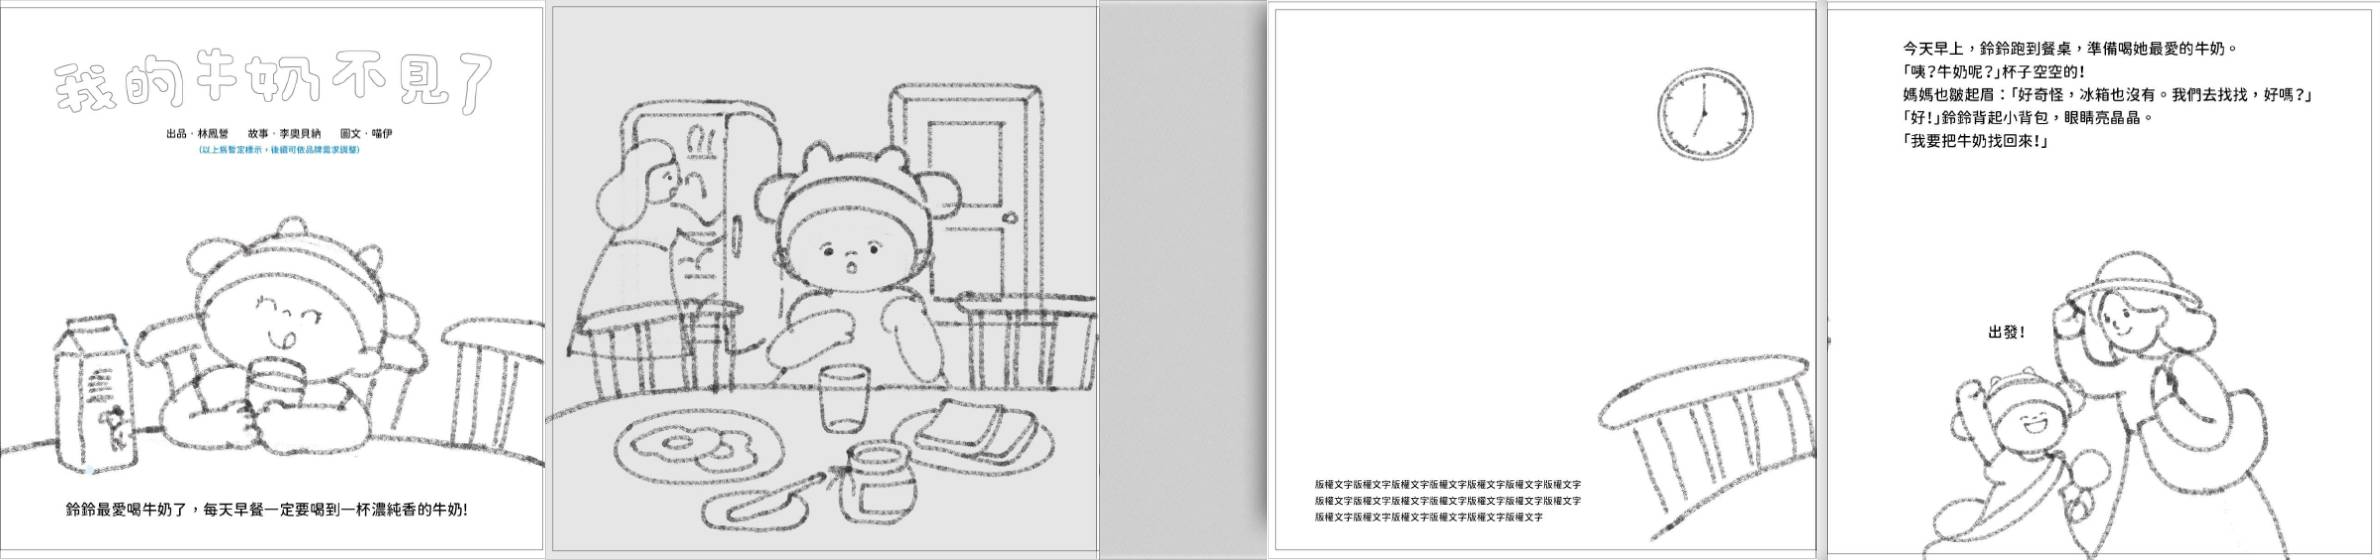
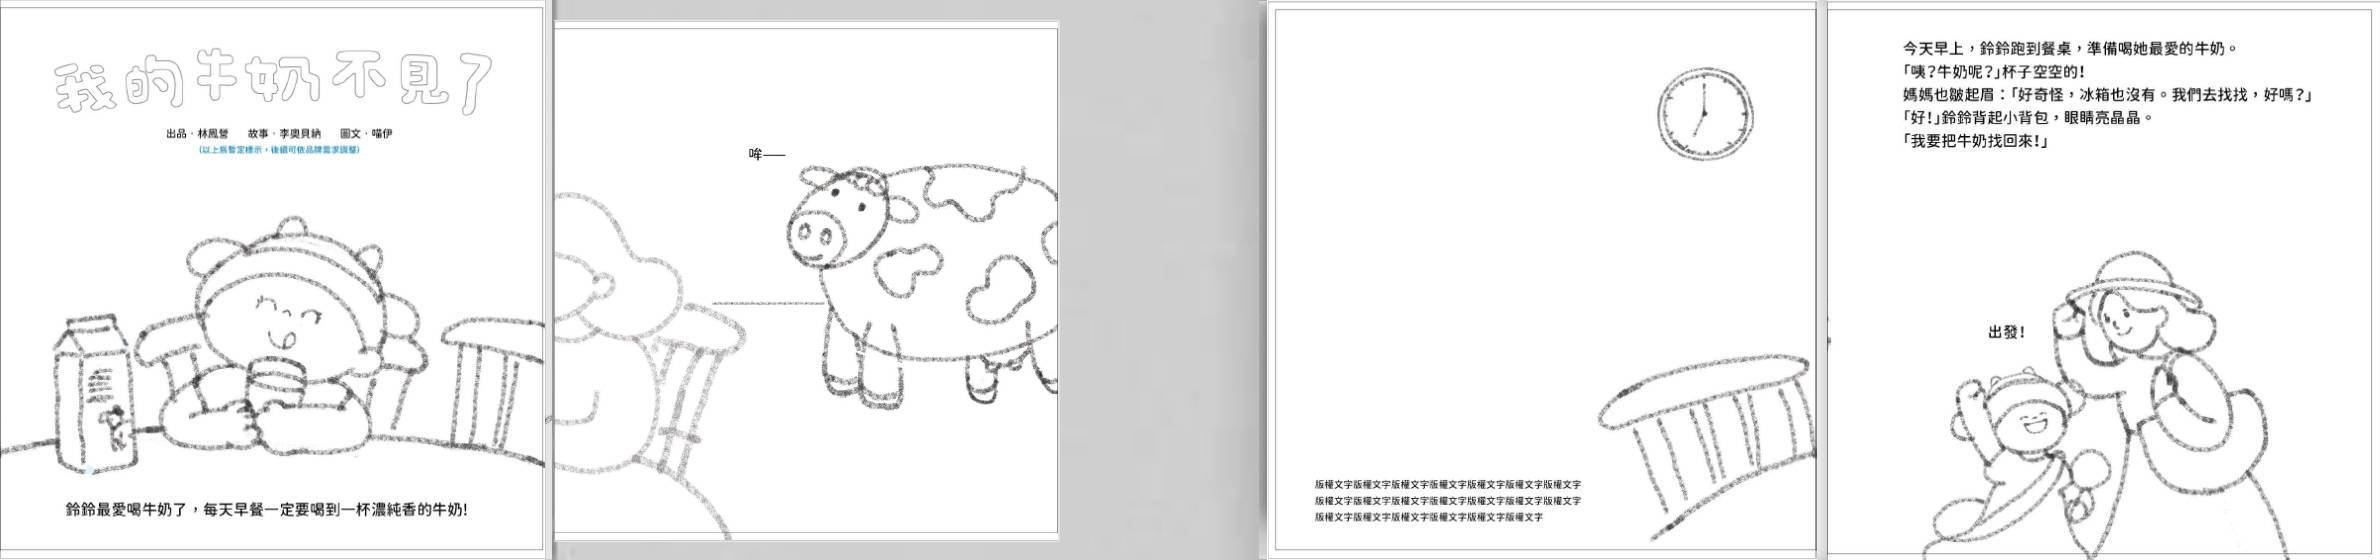
git: 調整css

Changed region(s): [[0.2176, 0.1214, 0.4664, 1.0], [0.2176, 0.0, 0.4664, 0.0607]]

diff --git a/milk-book/css/milk-book.css b/milk-book/css/milk-book.css
@@ -144,12 +144,17 @@
 }
 
 .sj-book .p1,
-.sj-book .p2,
 .sj-book .p3,
 .sj-book .p23,
 .sj-book .p24 {
   background-color: white;
   background-image: url(../pics/book-covers.jpg) !important;
+  background-size: cover;
+}
+
+.sj-book .p2 {
+  background-color: white;
+  background-image: url(../pics/book-inner.jpg) !important;
   background-size: cover;
 }
 
@@ -217,7 +222,7 @@
 }
 
 .sj-book .p2 {
-  background-position: -585px 0 !important;
+  background-position: -161px 0 !important;
 }
 
 .sj-book .p3 {
@@ -225,7 +230,7 @@
 }
 
 .sj-book .p23 {
-  background-position: -585px 0 !important;
+  background-position: -595px 0 !important;
 }
 
 .sj-book .p24 {

diff --git a/milk-book/js/milk-book.js b/milk-book/js/milk-book.js
@@ -342,7 +342,7 @@
             .html(
               '<div depth="5" class="hard"> <div class="side"></div> </div>' +
                 '<div depth="5" class="hard front-side"> <div class="depth"></div> </div>' +
-                '<div class="own-size"></div>' +
+                // '<div class="own-size"></div>' +
                 '<div class="hard fixed back-side p23"> <div class="depth"></div> </div>' +
                 '<div class="hard p24"></div>'
             )

diff --git a/css/default.css b/css/default.css
@@ -423,6 +423,7 @@ li {
 
 .preview {
   height: 800px;
+  overflow: hidden;
 }
 
 .bookshelf {
